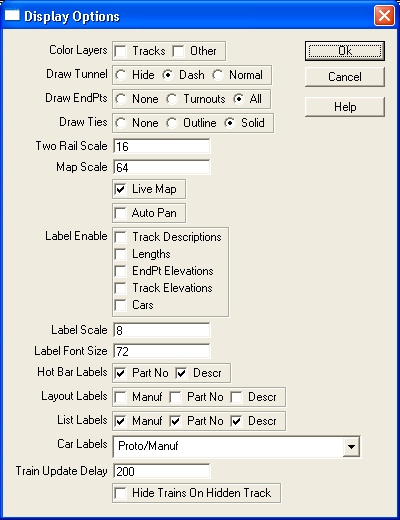
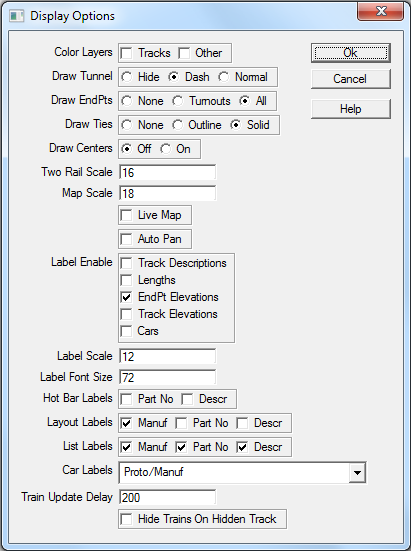
All: Make drawing of center markings (crosshair) an user option

Changed region(s): [[0.0, 0.0, 1.0, 1.0], [0.84, 0.8308, 0.9, 0.8923]]

diff --git a/app/bin/doption.c b/app/bin/doption.c
@@ -209,14 +209,13 @@ static char * autoPanLabels[] = { N_("Auto Pan"), NULL };
 static char * drawTunnelLabels[] = { N_("Hide"), N_("Dash"), N_("Normal"), NULL };
 static char * drawEndPtLabels3[] = { N_("None"), N_("Turnouts"), N_("All"), NULL };
 static char * tiedrawLabels[] = { N_("None"), N_("Outline"), N_("Solid"), NULL };
+static char * drawCenterCircle[] = { N_("Off"), N_("On"), NULL };
 static char * labelEnableLabels[] = { N_("Track Descriptions"), N_("Lengths"), N_("EndPt Elevations"), N_("Track Elevations"), N_("Cars"), NULL };
 static char * hotBarLabelsLabels[] = { N_("Part No"), N_("Descr"), NULL };
 static char * listLabelsLabels[] = { N_("Manuf"), N_("Part No"), N_("Descr"), NULL };
 static char * colorLayersLabels[] = { N_("Tracks"), N_("Other"), NULL };
 static char * liveMapLabels[] = { N_("Live Map"), NULL };
 static char * hideTrainsInTunnelsLabels[] = { N_("Hide Trains On Hidden Track"), NULL };
-
-static char * drawEndPtLabels2[] = { N_("Off"), N_("On"), NULL };
 
 extern long trainPause;
 
@@ -225,6 +224,7 @@ static paramData_t displayPLs[] = {
 	{ PD_RADIO, &drawTunnel, "tunnels", PDO_NOPSHUPD|PDO_DRAW, drawTunnelLabels, N_("Draw Tunnel"), BC_HORZ, (void*)(CHANGE_MAIN) },
 	{ PD_RADIO, &drawEndPtV, "endpt", PDO_NOPSHUPD|PDO_DRAW, drawEndPtLabels3, N_("Draw EndPts"), BC_HORZ, (void*)(CHANGE_MAIN) },
 	{ PD_RADIO, &tieDrawMode, "tiedraw", PDO_NOPSHUPD|PDO_DRAW, tiedrawLabels, N_("Draw Ties"), BC_HORZ, (void*)(CHANGE_MAIN) },
+	{ PD_RADIO, &centerDrawMode, "centerdraw", PDO_NOPSHUPD|PDO_DRAW, drawCenterCircle, N_("Draw Centers"), BC_HORZ, (void*)(CHANGE_MAIN | CHANGE_MAP) },
 	{ PD_LONG, &twoRailScale, "tworailscale", PDO_NOPSHUPD, &i1_64, N_("Two Rail Scale"), 0, (void*)(CHANGE_MAIN) },
 	{ PD_LONG, &mapScale, "mapscale", PDO_NOPSHUPD, &i1_256, N_("Map Scale"), 0, (void*)(CHANGE_MAP) },
 	{ PD_TOGGLE, &liveMap, "livemap", PDO_NOPSHUPD, liveMapLabels, "", BC_HORZ },
@@ -235,7 +235,8 @@ static paramData_t displayPLs[] = {
 	{ PD_TOGGLE, &hotBarLabels, "hotbarlabels", PDO_NOPSHUPD, hotBarLabelsLabels, N_("Hot Bar Labels"), BC_HORZ, (void*)(CHANGE_TOOLBAR) },
 	{ PD_TOGGLE, &layoutLabels, "layoutlabels", PDO_NOPSHUPD, listLabelsLabels, N_("Layout Labels"), BC_HORZ, (void*)(CHANGE_MAIN) },
 	{ PD_TOGGLE, &listLabels, "listlabels", PDO_NOPSHUPD, listLabelsLabels, N_("List Labels"), BC_HORZ, (void*)(CHANGE_PARAMS) },
-#define I_HOTBARLABELS	(14)
+/* ATTENTION: update the define below if you add entries above */
+#define I_HOTBARLABELS	(15) 
 	{ PD_DROPLIST, &carHotbarModeInx, "carhotbarlabels", PDO_NOPSHUPD|PDO_DLGUNDERCMDBUTT|PDO_LISTINDEX, (void*)250, N_("Car Labels"), 0, (void*)CHANGE_SCALE },
 	{ PD_LONG, &trainPause, "trainpause", PDO_NOPSHUPD, &i10_1000 , N_("Train Update Delay"), 0, 0 },
 	{ PD_TOGGLE, &hideTrainsInTunnels, "hideTrainsInTunnels", PDO_NOPSHUPD, hideTrainsInTunnelsLabels, "", BC_HORZ }

diff --git a/app/bin/track.c b/app/bin/track.c
@@ -56,6 +56,8 @@ EXPORT wIndex_t trackCount;
 
 EXPORT long drawEndPtV = 2;
 
+EXPORT long centerDrawMode = FALSE;			/**< flag to control drawing of circle centers */
+
 static BOOL_T exportingTracks = FALSE;
 
 EXPORT signed char * pathPtr;
@@ -2190,9 +2192,9 @@ LOG( log_track, 4, ( "DST( (%0.3f %0.3f) R%0.3f A%0.3f..%0.3f)\n",
 	if (color == wDrawColorBlack)
 		color = normalColor;
 	if ( d->scale >= scale2rail ) {
-		DrawArc( d, p, r, a0, a1, (d->scale<32)?1:0, width, color );
+		DrawArc( d, p, r, a0, a1, ((d->scale<32) && centerDrawMode) ? 1 : 0, width, color );
 	} else if (d->options & DC_QUICK) {
-		DrawArc( d, p, r, a0, a1, (d->scale<32)?1:0, 0, color );
+		DrawArc( d, p, r, a0, a1, ((d->scale<32) && centerDrawMode) ? 1 : 0, 0, color );
 	} else {
 		if ( (d->scale <= 1 && (d->options&DC_SIMPLE)==0) || (d->options&DC_CENTERLINE)!=0 ) {
 			long options = d->options;
@@ -2201,7 +2203,7 @@ LOG( log_track, 4, ( "DST( (%0.3f %0.3f) R%0.3f A%0.3f..%0.3f)\n",
 			d->options = options;
 		}
 		DrawArc( d, p, r+trackGauge/2.0, a0, a1, 0, width, color );
-		DrawArc( d, p, r-trackGauge/2.0, a0, a1, 1, width, color );
+		DrawArc( d, p, r-trackGauge/2.0, a0, a1, (centerDrawMode? 1: 0), width, color );
 		if ( (d->options&DC_PRINT) && roadbedWidth > trackGauge && d->scale <= scale2rail/2 ) {
 			 wDrawWidth rbw = (wDrawWidth)floor(roadbedLineWidth*(d->dpi/d->scale)+0.5);
 			 if ( options&DTS_RIGHT ) {

diff --git a/app/bin/track.h b/app/bin/track.h
@@ -53,6 +53,7 @@ extern track_p tempTrack;
 extern wIndex_t trackCount;
 extern long drawTunnel;
 extern long drawEndPtV;
+extern long centerDrawMode;
 extern wDrawColor selectedColor;
 extern wDrawColor normalColor;
 extern BOOL_T useCurrentLayer;
